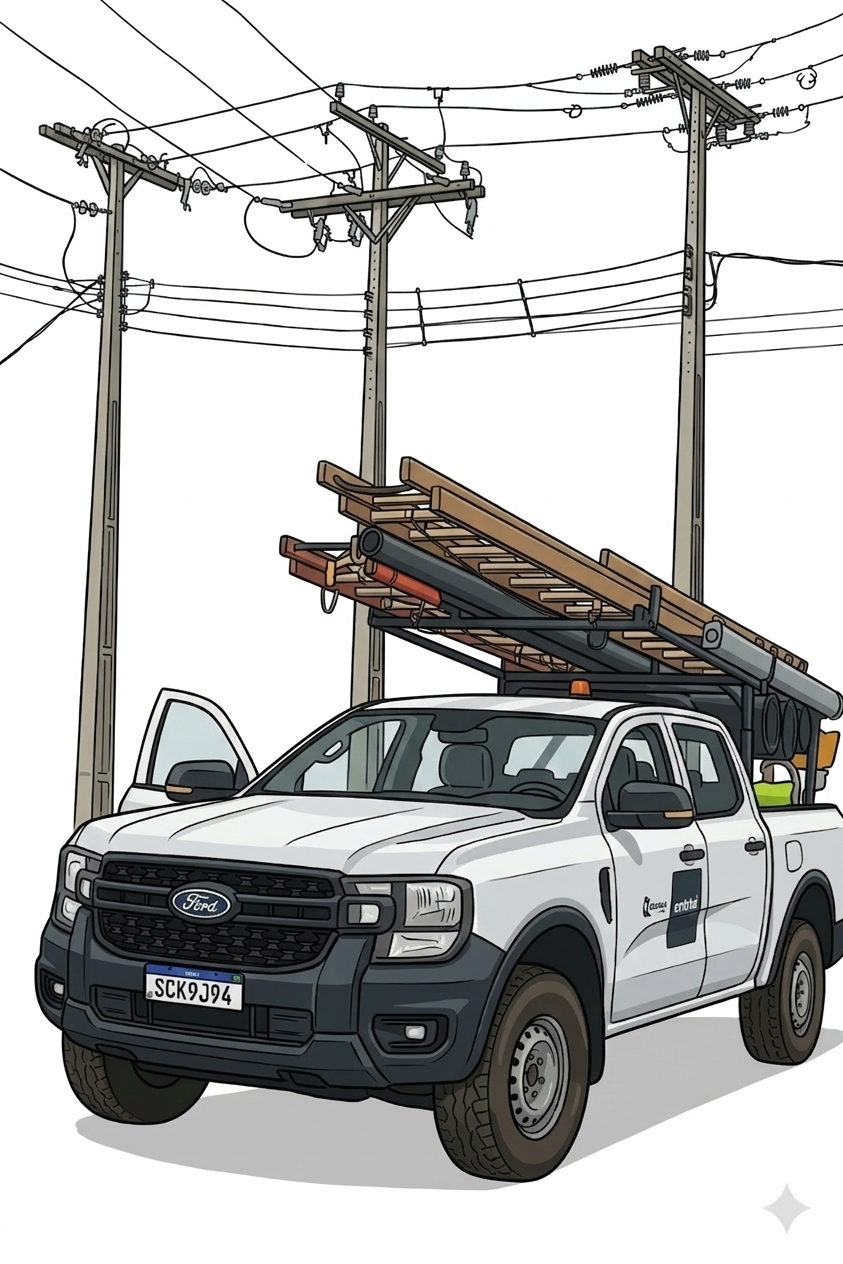
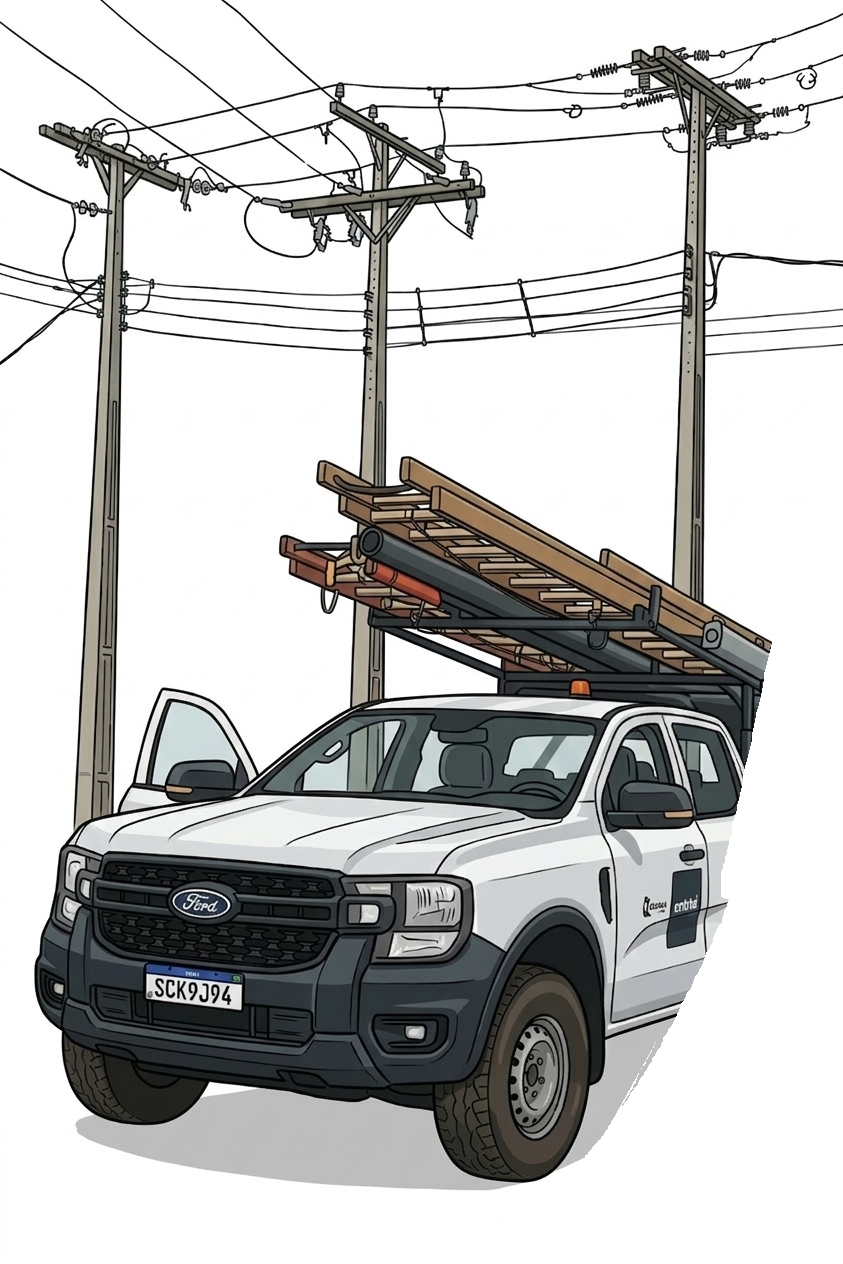
novo carro

Changed region(s): [[0.7094, 0.4937, 1.0, 0.9256], [0.9253, 0.9256, 0.9561, 0.9873]]

diff --git a/index.html b/index.html
@@ -9,7 +9,7 @@
 body{
     margin:0;
     font-family: Arial, sans-serif;
-    background:#eee;
+    background:#ffffff;
     display: flex;
     flex-direction: column;
     align-items: center;
@@ -17,7 +17,7 @@ body{
 
 /* Instrução para o usuário */
 .instrucao {
-    background: #fff;
+    background: #ffffff;
     padding: 10px 20px;
     margin-top: 20px;
     border-radius: 8px;
@@ -29,7 +29,7 @@ body{
     width:1000px;
     height:700px;
     margin:30px auto;
-    background:#f5f5f5;
+    background:#ffffff;
     position:relative;
     box-shadow:0 0 20px rgba(0,0,0,0.2);
     overflow:hidden;
@@ -38,10 +38,10 @@ body{
 /* LADO AZUL */
 .lateral{
     position:absolute;
-    width:300px;
-    height:100%;
+    width:350px;
+    height:85%;
     background: url(Gemini_Generated_Image_.png) no-repeat center center / cover ;
-    opacity: 0.3;
+    opacity: 0.9;
 }
 
 .faixa{
@@ -111,25 +111,40 @@ h1{
 }
 
 /* MEDALHA EDITÁVEL */
-.medalha{
-    position:absolute;
-    bottom:120px;
-    left:220px;
-    width:120px;
-    height:120px;
-    background:goldenrod;
-    border-radius:50%;
-    display:flex;
-    align-items:center;
-    justify-content:center;
-    text-align:center;
-    font-size:12px;
-    color:#fff;
+/* MEDALHA EDITÁVEL - ESTILO OURO */
+.medalha {
+    position: absolute;
+    bottom: 120px;
+    left: 220px;
+    width: 120px;
+    height: 120px;
+    
+    /* Cor de Ouro com Degradê */
+    background: linear-gradient(135deg, #ffd700 0%, #ffb800 50%, #e6a700 100%);
+    
+    /* Formato e Borda */
+    border-radius: 50%;
+    border: 5px solid #d4af37; /* Borda dourada sólida */
+    
+    /* Sombras para profundidade (Efeito 3D) */
+    box-shadow: inset 0 0 15px rgba(255, 255, 255, 0.5), 0 5px 15px rgba(0, 0, 0, 0.3);
+    
+    /* Alinhamento do Conteúdo */
+    display: flex;
+    align-items: center;
+    justify-content: center;
+    text-align: center;
+    
+    /* Texto */
+    font-size: 12px;
+    color: #5c4300; /* Marrom escuro para contrastar com o ouro */
     font-weight: bold;
+    text-transform: uppercase;
+    text-shadow: 1px 1px 0px rgba(255, 255, 255, 0.3);
+    
     outline: none;
     z-index: 10;
 }
-
 /* ASSINATURAS */
 .assinaturas{
     display:flex;
@@ -211,7 +226,7 @@ h1{
 
         <p class="texto">
             Certificamos que <strong contenteditable="true">Adão Emanuel de Araujo</strong>, 
-            atuando na equipe <strong contenteditable="true">AGLL060m</strong>. <br>
+            atuando na equipe <strong contenteditable="true">AGLL001M</strong>. <br>
             <span contenteditable="true">"Grandes conquistas são fruto de grandes parcerias. Agradecemos por vestir a camisa e por demonstrar que, com foco e colaboração, não existem limites para o que podemos alcançar juntos. Parabéns pelo excelente trabalho!"</span>
         </p><br>
 
@@ -222,7 +237,7 @@ h1{
             </div>
 
             <div class="assinatura" contenteditable="true">
-                Adão Manuel de Araujo<br>
+                ADÃO EMANUEL DE ARAUJO<br>
                 Instalador Elétrico 1
             </div>
         </div>
